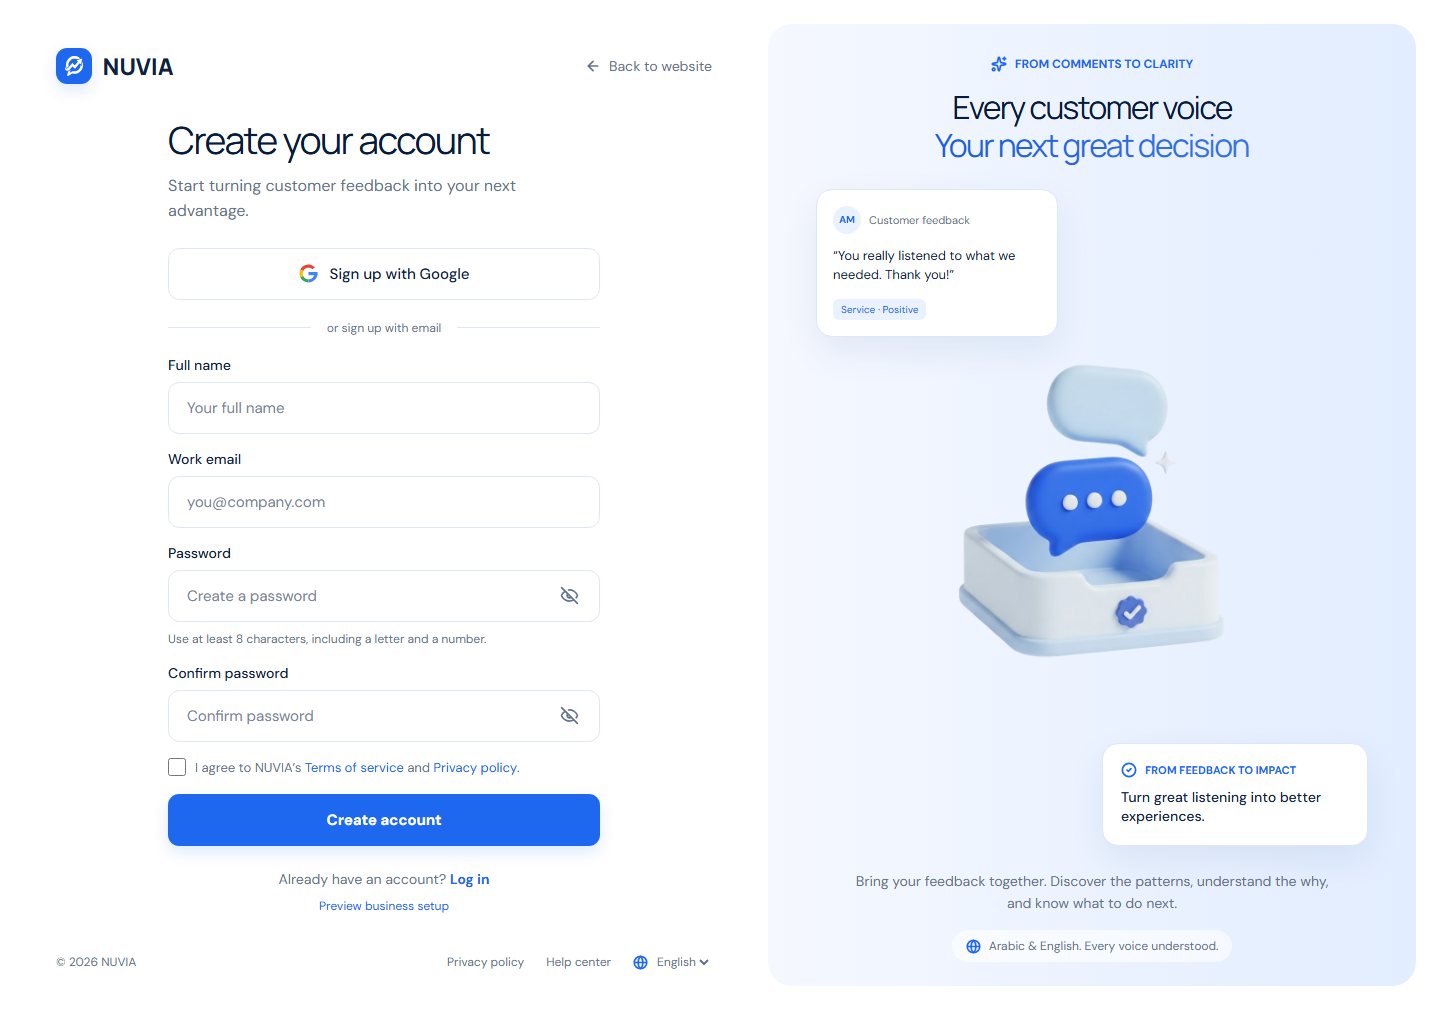
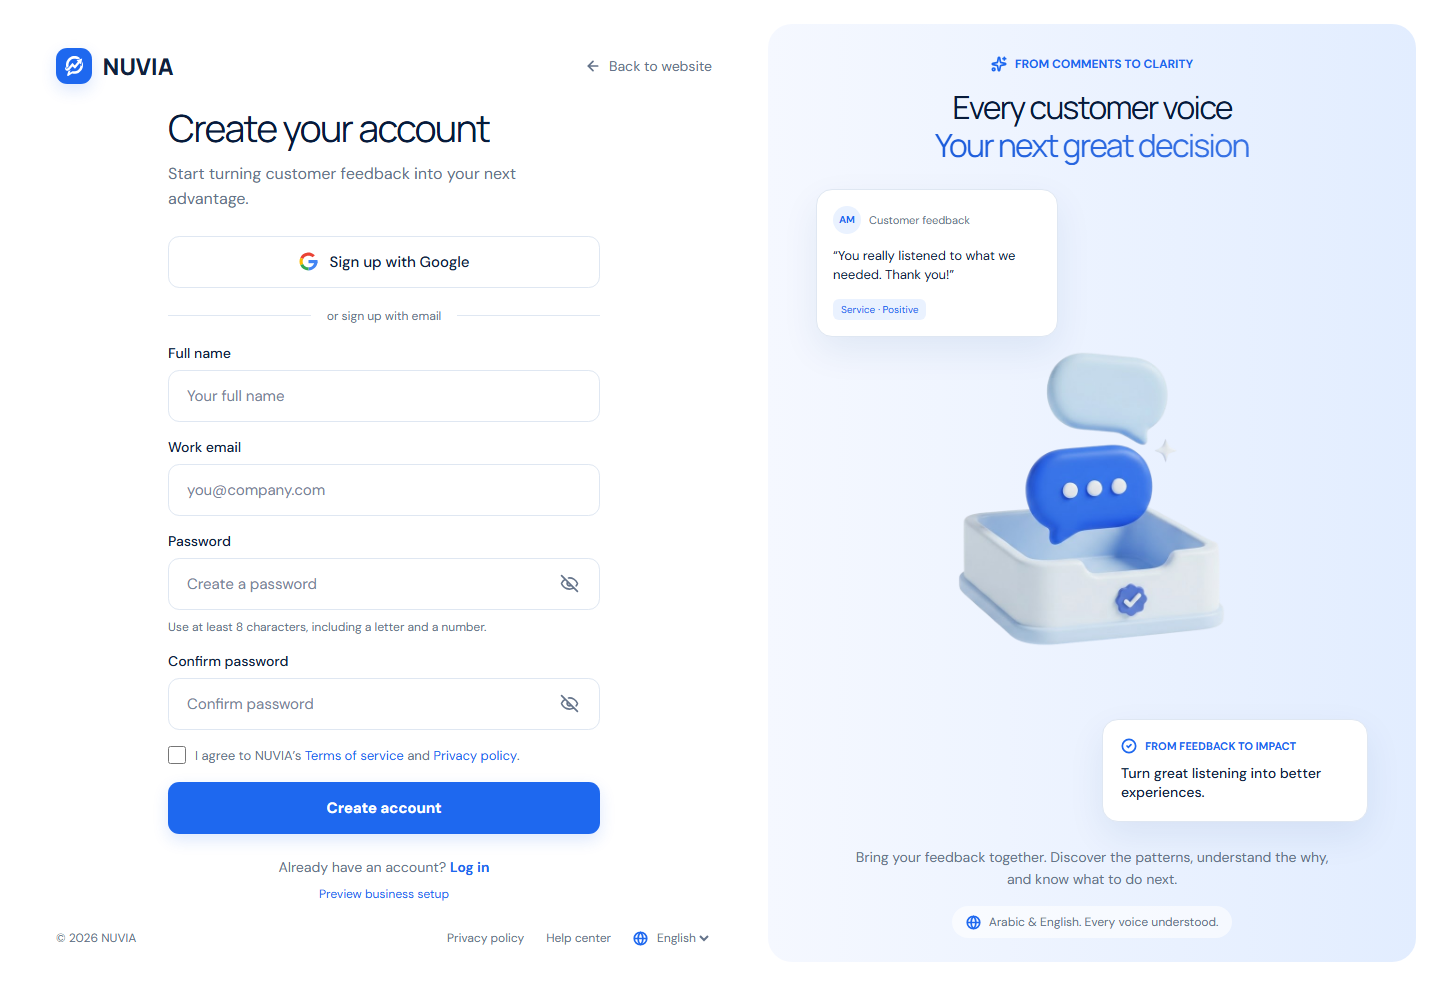
Polish responsive typography navigation and account layouts

diff --git a/src/frontend/src/styles/app.css b/src/frontend/src/styles/app.css
@@ -852,7 +852,6 @@ footer button {
     line-height: 1.45;
   }
 }
-
 /* Mobile account screens omit the desktop utility footer. */
 @media (max-width: 850px) {
   .auth-layout .auth-panel > footer {
@@ -860,5 +859,174 @@ footer button {
   }
   .auth-layout .auth-panel {
     justify-content: flex-start;
+  }
+}
+
+/* A modest heading reduction on phones, keeping controls and helper text readable. */
+@media (max-width: 700px) {
+  .auth-layout .intro h1 {
+    font-size: 29px;
+  }
+  [dir='rtl'] .auth-layout .intro h1 {
+    font-size: 28px;
+  }
+  .auth-layout .intro p {
+    font-size: 15px;
+  }
+  .auth-layout .login .primary {
+    font-size: 18px;
+  }
+}
+/* Fit account forms to ordinary screen heights; retain natural flow for keyboards,
+   validation messages, short windows and enlarged text instead of clipping fields. */
+.auth-layout:has(.login),
+.auth-layout:has(.signup) {
+  height: auto;
+  min-height: 100dvh;
+}
+.auth-layout:has(.login) .auth-panel,
+.auth-layout:has(.signup) .auth-panel {
+  height: auto;
+  min-height: calc(100dvh - 48px);
+  grid-template-rows: auto 1fr auto;
+}
+.auth-layout .auth-content.login,
+.auth-layout .auth-content.signup {
+  overflow: visible;
+  max-height: none;
+  scrollbar-gutter: auto;
+  padding: 12px 0;
+  margin: 0 auto;
+  align-self: center;
+}
+@media (max-height: 900px) {
+  .auth-layout .intro,
+  .auth-layout .signup .intro {
+    margin-bottom: 16px;
+  }
+  .auth-layout .intro p {
+    margin-top: 8px;
+    font-size: 14px;
+  }
+  .auth-layout .divider,
+  .auth-layout .signup .divider {
+    margin: 14px 0;
+  }
+  .auth-layout form {
+    gap: 12px;
+  }
+  .auth-layout .field {
+    gap: 6px;
+  }
+  .auth-layout .input-wrap,
+  .auth-layout .google,
+  .auth-layout .primary {
+    height: 44px;
+  }
+  .auth-layout .cross-link,
+  .auth-layout .signup .cross-link {
+    margin-top: 16px;
+  }
+  .auth-layout .login-form {
+    padding: 16px;
+  }
+  .auth-layout .story {
+    padding-top: 28px;
+    padding-bottom: 24px;
+    overflow: visible;
+    height: auto;
+    align-self: stretch;
+  }
+  .auth-layout .story h2 {
+    margin: 16px 0 20px;
+    font-size: 30px;
+  }
+  .auth-layout .illustration,
+  .auth-layout .art {
+    height: 300px;
+  }
+  .auth-layout .insight-card {
+    top: 200px;
+  }
+  .auth-layout .caption {
+    margin-top: 24px;
+    font-size: 14px;
+  }
+}
+@media (max-width: 850px) {
+  .auth-layout:has(.login),
+  .auth-layout:has(.signup) {
+    padding: 12px 16px;
+  }
+  .auth-layout:has(.login) .auth-panel,
+  .auth-layout:has(.signup) .auth-panel {
+    min-height: calc(100dvh - 24px);
+    padding: 8px;
+    gap: 16px;
+    justify-content: space-between;
+  }
+  .auth-layout .auth-content.login,
+  .auth-layout .auth-content.signup {
+    margin: auto;
+    padding: 16px 0;
+  }
+  .auth-layout .input-wrap input {
+    font-size: 16px;
+  }
+}
+@media (max-height: 900px) {
+  .auth-layout .signup {
+    padding-block: 8px;
+  }
+  .auth-layout .signup form {
+    gap: 8px;
+  }
+  .auth-layout .signup .intro {
+    margin-bottom: 12px;
+  }
+  .auth-layout .signup .divider {
+    margin: 10px 0;
+  }
+  .auth-layout .signup .terms {
+    font-size: 12px;
+    line-height: 1.4;
+  }
+}
+@media (max-width: 850px) and (max-height: 900px) {
+  .auth-layout .auth-content.signup {
+    padding-block: 8px;
+  }
+}
+@media (max-width: 850px) and (max-height: 900px) {
+  .auth-layout:has(.signup) .auth-panel {
+    gap: 10px;
+  }
+}
+@media (min-width: 851px) and (max-height: 900px) {
+  .auth-layout:has(.login),
+  .auth-layout:has(.signup) {
+    padding-block: 16px;
+  }
+  .auth-layout:has(.login) .auth-panel,
+  .auth-layout:has(.signup) .auth-panel {
+    min-height: calc(100dvh - 32px);
+    padding-top: 16px;
+  }
+}
+@media (min-width: 851px) and (max-height: 900px) {
+  .auth-layout .signup .intro h1 {
+    font-size: 28px;
+    line-height: 1.3;
+  }
+  .auth-layout .signup .input-wrap,
+  .auth-layout .signup .google,
+  .auth-layout .signup .primary {
+    height: 42px;
+  }
+  .auth-layout .signup .cross-link {
+    margin-top: 12px;
+  }
+  .auth-layout .signup .intro p {
+    line-height: 1.4;
   }
 }

diff --git a/src/frontend/src/styles/landing.css b/src/frontend/src/styles/landing.css
@@ -1147,15 +1147,15 @@
 @media (max-width: 700px) and (prefers-reduced-motion: no-preference) {
   .landing .feature-card.reveal.is-visible,
   .landing .step-card.reveal.is-visible {
-    animation: mobile-card-enter 0.85s cubic-bezier(0.2, 0.75, 0.25, 1) backwards;
+    animation: mobile-card-enter 0.28s ease-out;
   }
   .landing .feature-card:nth-child(3n + 2),
   .landing .step-card:nth-child(3n + 2) {
-    animation-delay: 0.1s;
+    animation-delay: 0s;
   }
   .landing .feature-card:nth-child(3n + 3),
   .landing .step-card:nth-child(3n + 3) {
-    animation-delay: 0.18s;
+    animation-delay: 0s;
   }
   .landing .feature-card > button,
   .landing .hero-explore {
@@ -1171,10 +1171,83 @@
 @keyframes mobile-card-enter {
   from {
     opacity: 0;
-    transform: translateY(28px) scale(0.975);
+    transform: translateY(8px);
   }
   to {
     opacity: 1;
     transform: translateY(0) scale(1);
+  }
+}
+
+/* Compact phone typography; desktop and artwork keep their existing dimensions. */
+@media (max-width: 700px) {
+  .landing .hero-copy h1 {
+    font-size: 30px;
+  }
+  [dir='rtl'] .landing .hero-copy h1 {
+    font-size: 28px;
+  }
+  .landing .section-heading h2 {
+    font-size: 30px;
+  }
+  .landing .language-copy h2 {
+    font-size: 29px;
+  }
+  .landing .demo-copy h2 {
+    font-size: 28px;
+  }
+  [dir='rtl'] .landing h2 {
+    font-size: 26px;
+  }
+  .landing .section-heading > p:last-child:not(.section-label),
+  .landing .language-copy > p:not(.section-label),
+  .landing .demo-copy > p:last-child {
+    font-size: 15px;
+  }
+  .landing .feature-card h3 {
+    font-size: 17px;
+  }
+  .landing .feature-card > p,
+  .landing .step-card p {
+    font-size: 14px;
+  }
+  .landing .step-card h3 {
+    font-size: 20px;
+  }
+  .landing .footer-column h3 {
+    font-size: 19px;
+  }
+  .landing .footer-column button,
+  .landing .footer-description p {
+    font-size: 14px;
+  }
+  .landing .reveal.is-visible {
+    animation: none;
+  }
+}
+@media (max-width: 700px) and (prefers-reduced-motion: no-preference) {
+  .landing .feature-card.reveal.is-visible,
+  .landing .step-card.reveal.is-visible {
+    animation: mobile-card-enter 0.28s ease-out;
+    animation-delay: 0s;
+  }
+}
+/* Keep the phone navigation available without changing the hero's starting position. */
+@media (max-width: 700px) {
+  .landing .landing-top {
+    padding-top: 120px;
+  }
+  .landing .landing-nav {
+    position: fixed;
+    top: 0;
+    inset-inline: 0;
+    z-index: 50;
+    width: 100%;
+    padding: 16px 28px;
+    background: #fff;
+    box-shadow: 0 1px 8px #0d326d0a;
+  }
+  .landing [id] {
+    scroll-margin-top: 90px;
   }
 }

diff --git a/src/frontend/src/pages/LandingPage.jsx b/src/frontend/src/pages/LandingPage.jsx
@@ -50,12 +50,10 @@ export default function LandingPage({ language, setLanguage }) {
     return () => observer.disconnect();
   }, [language]);
   const scroll = (id) =>
-    document
-      .getElementById(id)
-      ?.scrollIntoView({
-        behavior: window.matchMedia('(prefers-reduced-motion: reduce)').matches ? 'auto' : 'smooth',
-        block: 'start',
-      });
+    document.getElementById(id)?.scrollIntoView({
+      behavior: window.matchMedia('(prefers-reduced-motion: reduce)').matches ? 'auto' : 'smooth',
+      block: 'start',
+    });
   const change = (e) => {
     setValues((v) => ({ ...v, [e.target.name]: e.target.value }));
     setErrors((v) => ({ ...v, [e.target.name]: undefined }));

diff --git a/src/frontend/src/styles/setup.css b/src/frontend/src/styles/setup.css
@@ -865,3 +865,24 @@
     line-height: 1.45;
   }
 }
+
+/* Phone setup screens omit the desktop copyright footer. */
+@media (max-width: 850px) {
+  .business-onboarding .setup-footer {
+    display: none;
+  }
+}
+@media (max-width: 700px) {
+  .business-onboarding .setup-content h1 {
+    font-size: 26px;
+  }
+  .business-onboarding .setup-sidebar h2 {
+    font-size: 23px;
+  }
+  [dir='rtl'] .business-onboarding .setup-content h1 {
+    font-size: 26px;
+  }
+  [dir='rtl'] .business-onboarding .setup-sidebar h2 {
+    font-size: 23px;
+  }
+}

diff --git a/docs/frontend.md b/docs/frontend.md
@@ -86,4 +86,8 @@ English and Arabic screenshots are committed under `docs/ui/frontend/` for revie
 
 ## Mobile refinements
 
-Account screens hide the desktop utility footer on small screens. The mobile landing footer follows the Figma language/copyright/social row, and the hero preview keeps equal gutters in English and Arabic. Bottom padding is reduced, the mobile browser theme stays white, and root vertical overscroll is disabled on landing pages to avoid exposing a blank area during bounce scrolling. Card entry animations are more visible on mobile, restart correctly after switching language, and respect reduced-motion preferences. The iPhone-specific browser bounce still needs confirmation on the user's actual Safari device.
+Account screens hide the desktop utility footer on small screens. The mobile landing footer follows the Figma language/copyright/social row, and the hero preview keeps equal gutters in English and Arabic. Bottom padding is reduced, the mobile browser theme stays white, and root vertical overscroll is disabled on landing pages to avoid exposing a blank area during bounce scrolling. Phone typography is slightly smaller, and the landing navigation remains fixed during scrolling. Only feature and process cards use a brief 280 ms entry animation with an 8 px movement and no stagger; language switching and reduced-motion preferences remain supported. Business onboarding hides the desktop copyright footer on mobile. The iPhone-specific browser bounce still needs confirmation on the user's actual Safari device.
+
+## Account viewport fit
+
+Login and signup use compact spacing at common screen heights, with no internal form scrollbar. Browser review confirms both languages fit at 393 × 800 and 1440 × 800. Shorter viewports, enlarged text, keyboard display, and validation errors may require natural page scrolling so fields remain reachable; content is never clipped to enforce a fixed screen. Mobile inputs use a 16 px font to avoid automatic focus zoom on iOS.
